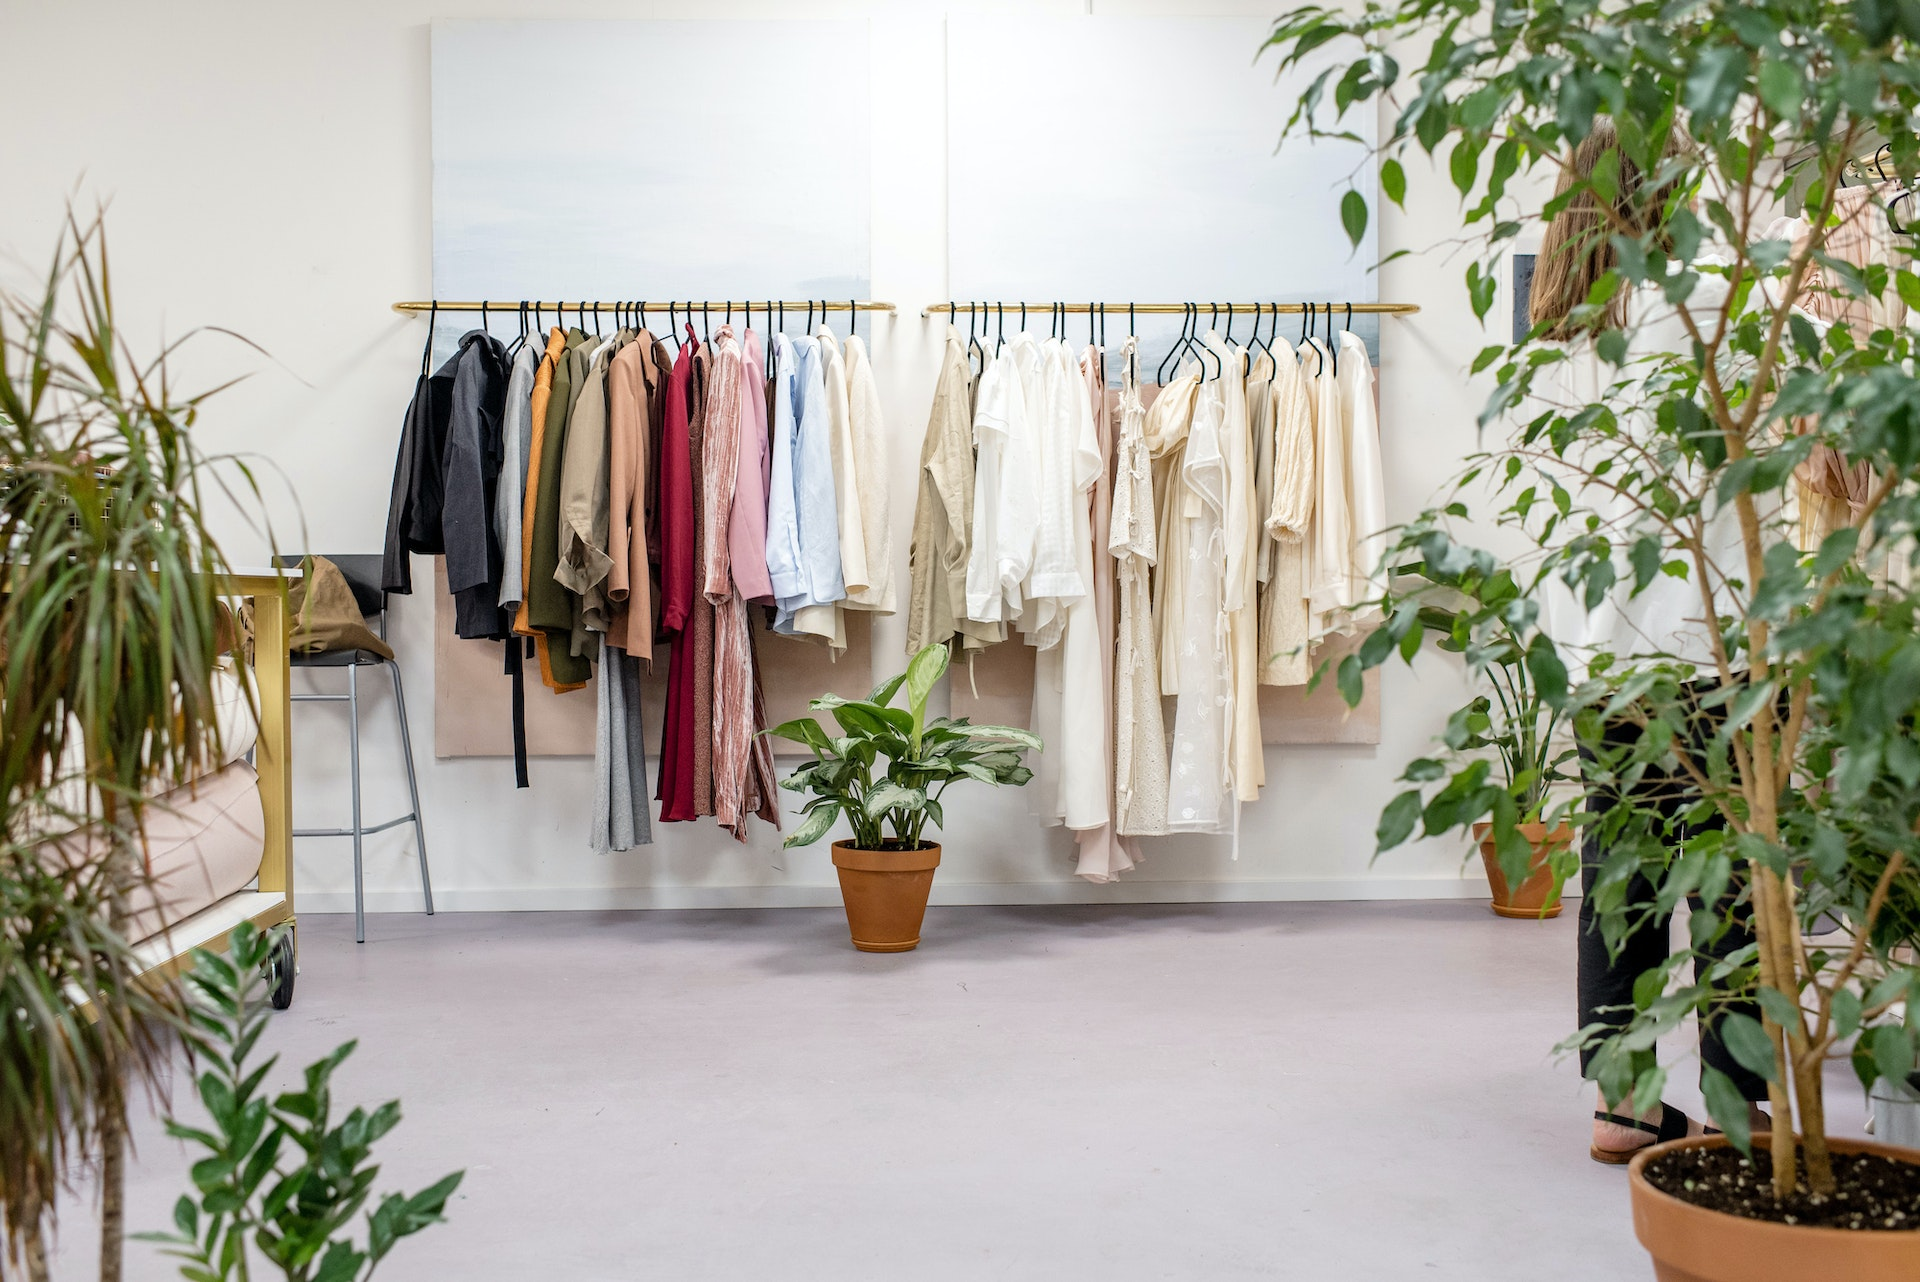
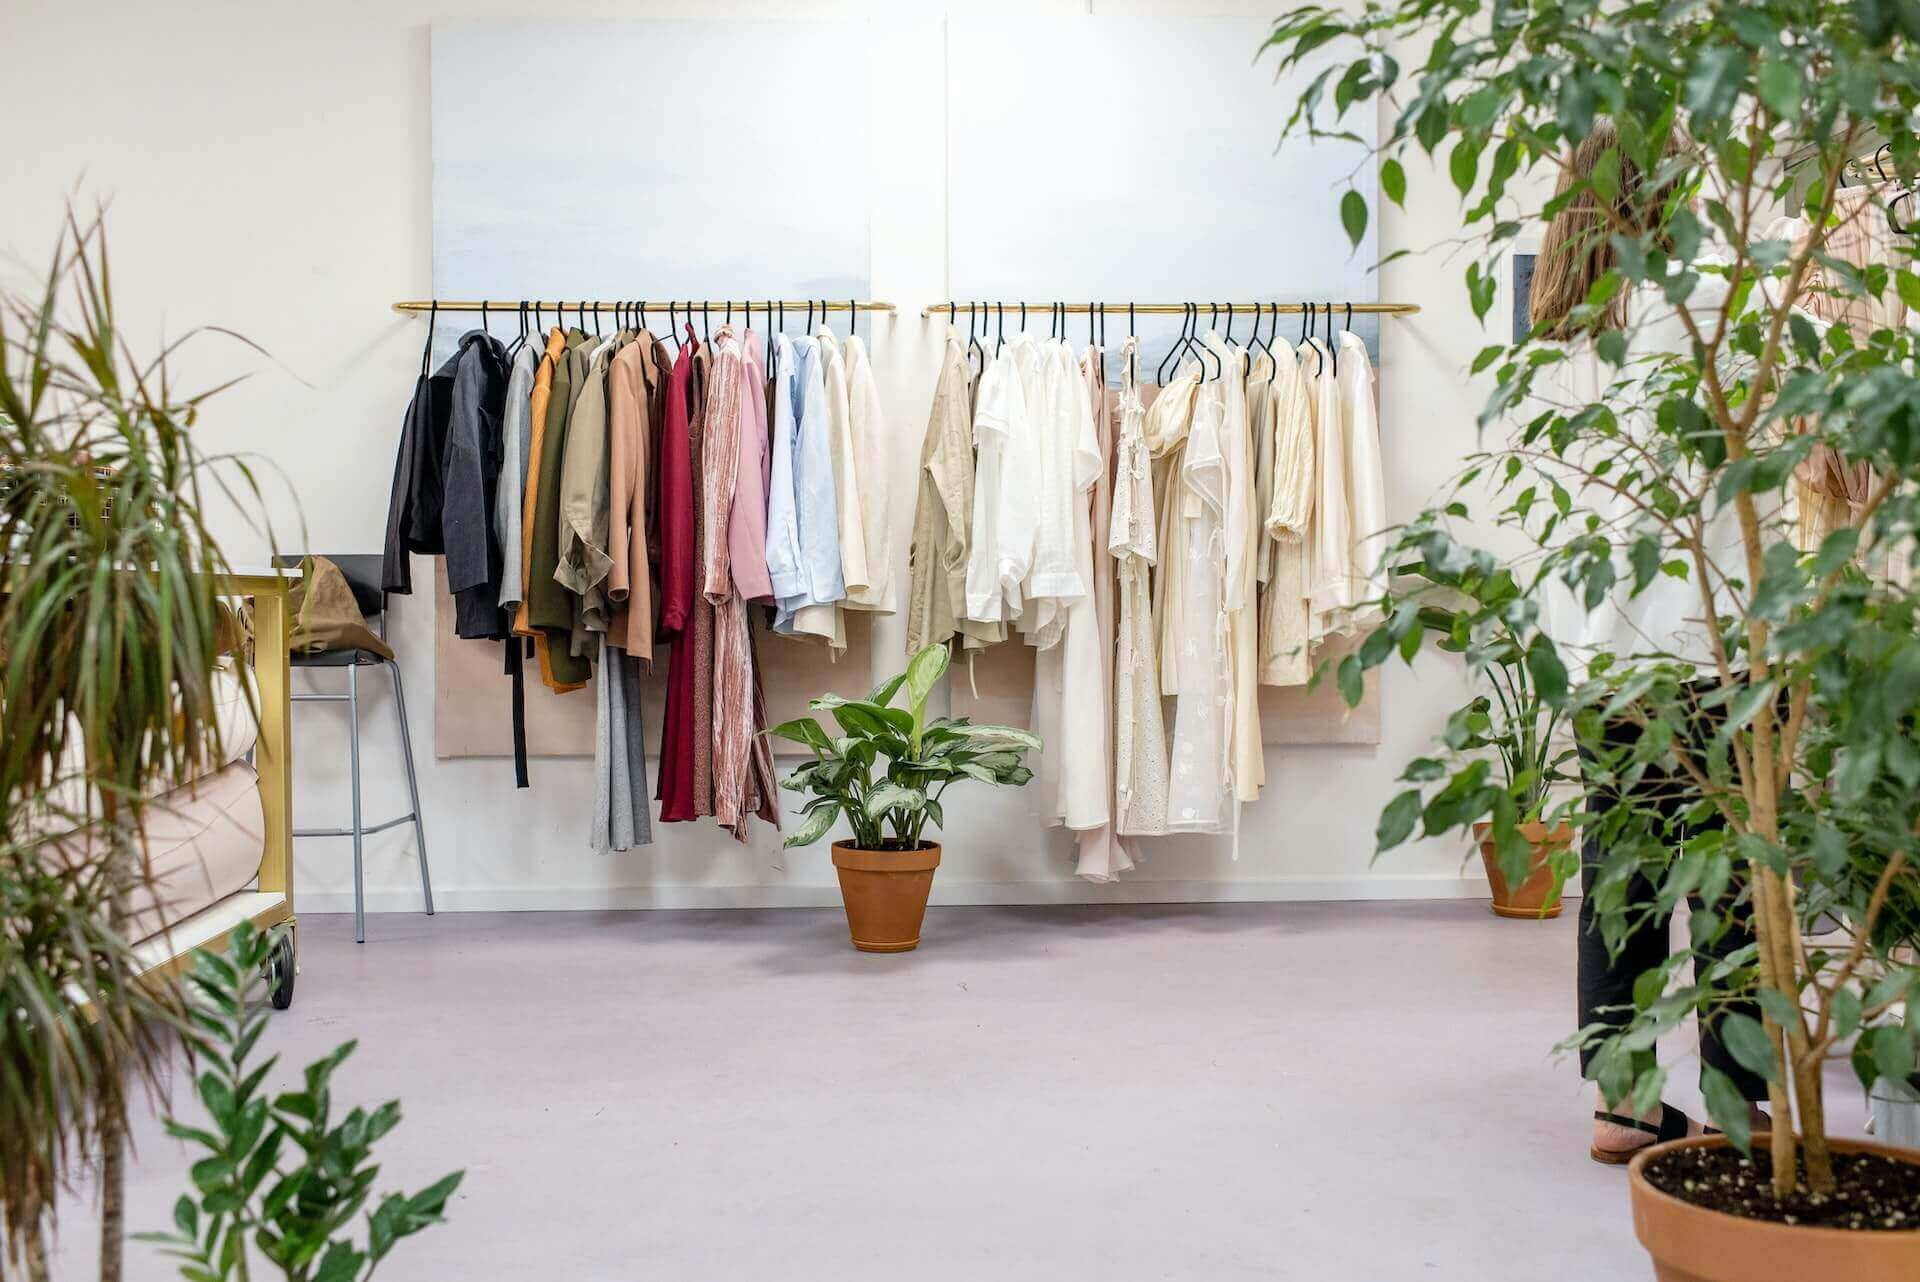
ADD compressed imgs and ADD README.md

Changed region(s): [[0.25, 0.2496, 0.375, 0.2808], [0.4375, 0.624, 0.4688, 0.6552]]

diff --git a/vite.config.js b/vite.config.js
@@ -8,13 +8,13 @@ export default defineConfig({
       input: {
         main: resolve(__dirname, "index.html"),
         login: resolve(__dirname, "pages/login.html"),
-        electro: resolve(__dirname, "pages/electro.html"),
         jewelry: resolve(__dirname, "pages/jewelry.html"),
         her: resolve(__dirname, "pages/her.html"),
         him: resolve(__dirname, "pages/him.html"),
         brands: resolve(__dirname, "pages/brands.html"),
         offers: resolve(__dirname, "pages/offers.html"),
         support: resolve(__dirname, "pages/support.html"),
+        electro: resolve(__dirname, "pages/electro.html"),
       },
     },
   },

diff --git a/pages/electro.html b/pages/electro.html
@@ -9,10 +9,10 @@
     <link rel="preconnect" href="https://fonts.gstatic.com" crossorigin>
     <link href="https://fonts.googleapis.com/css2?family=Roboto:wght@100;400;700&display=swap" rel="stylesheet">
     <script type="text/javascript" src="https://cdn.jsdelivr.net/npm/@emailjs/browser@3/dist/email.min.js"></script>
-    <script defer type="module" src="categories.js"></script>
+    <script defer type="module" src="./categories.js"></script>
   </head>
   <body>
-    <h1>her</h1>
+    <h1>electro</h1>
     <header class="home-search">
       <nav class="home-search__nav">
         <span class="icon_fashion">

diff --git a/README.md b/README.md
@@ -1,0 +1,5 @@
+
+# Aplicación web para el programa ONE
+## Ecommerce o AluraGeek
+
+# Gracias por entrar a mi web
